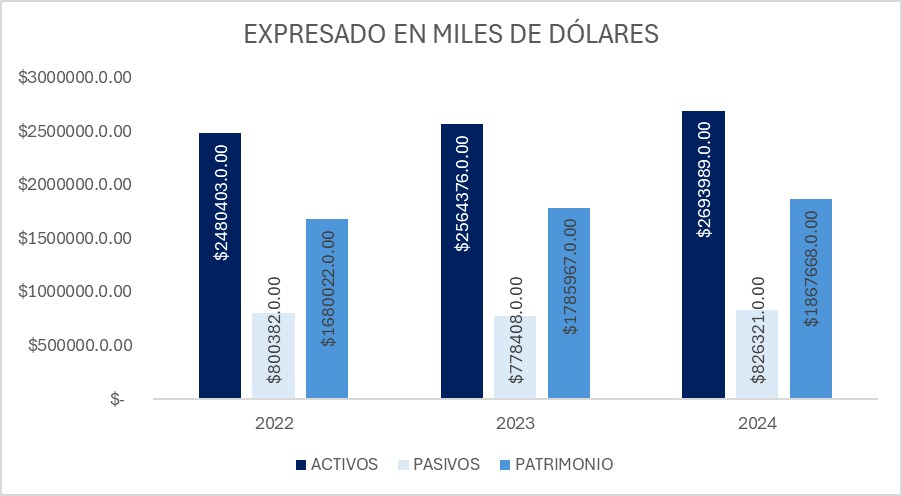
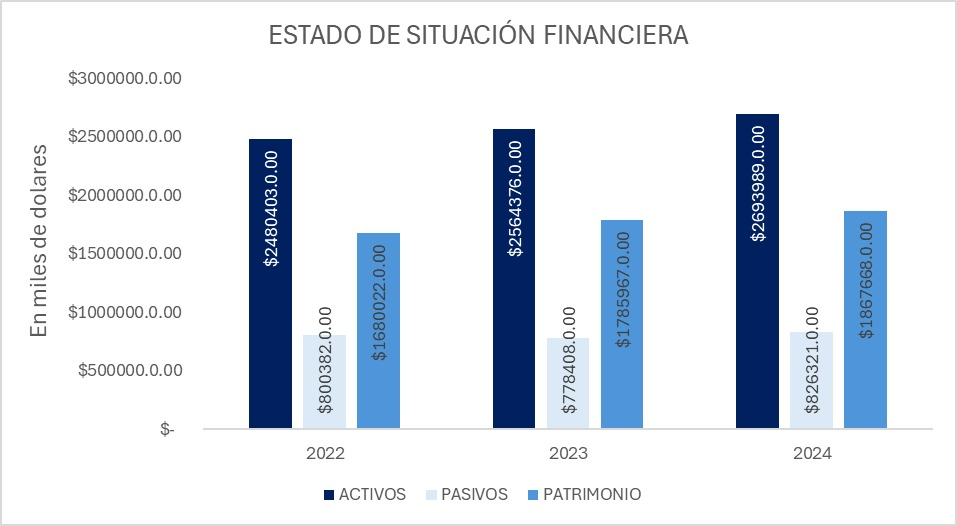
rere

diff --git a/templates/empresa.html b/templates/empresa.html
@@ -160,36 +160,34 @@
     <!-- Nueva Sección: Balances -->
 {% if profile.Nombre == "CORPORACION FAVORITA C.A." %}
 <div class="balances-section">
-    <h2 style="text-align: center;">Balances</h2>
+    <h2 style="text-align: center;">Estados Financieros</h2>
     <!-- Imagen: Activos -->
+    <h2 style="text-align: center;">Estado de situación financiera</h2>
     <div style="text-align: center; margin-bottom: 20px;">
         <img src="/static/img/Balances/CORPORACION_FAVORITA_C.A/activos.jpeg" 
              alt="Activos" 
-             style="max-width: 100%; height: auto; border: 4px solid black;">
+             style="max-width: 100%; height: auto; border: 1.5px solid black;">
     </div>
     <!-- Imagen: Activos Gráfico -->
-    <div style="text-align: center; margin-bottom: 40px;">
+         <div style="text-align: center; margin-bottom: 40px;">
         <img src="/static/img/Balances/CORPORACION_FAVORITA_C.A/activos_grafico.jpeg" 
              alt="Activos Gráfico" 
-             style="max-width: 100%; height: auto; border: 4px solid black;">
+             style="max-width: 100%; height: auto; border: 1.5px solid black;">
     </div>
     <!-- Imagen: Ingresos -->
+    <h2 style="text-align: center;" >Estado de resultados integral</h2>
     <div style="text-align: center; margin-bottom: 20px;">
         <img src="/static/img/Balances/CORPORACION_FAVORITA_C.A/ingresos.jpeg" 
              alt="Ingresos" 
-             style="max-width: 100%; height: auto; border: 4px solid black;">
+             style="max-width: 100%; height: auto; border: 1.5px solid black;">
     </div>
-    <!-- Imagen: Ingresos Gráfico -->
-    <div style="text-align: center; margin-bottom: 40px;">
-        <img src="/static/img/Balances/CORPORACION_FAVORITA_C.A/ingresos_grafico.jpeg" 
-             alt="Ingresos Gráfico" 
-             style="max-width: 100%; height: auto; border: 4px solid black;">
-    </div>
+
     <!-- Imagen: Liquidez -->
+    <h2 style="text-align: center;" >Principales indicadores</h2>
     <div style="text-align: center;">
         <img src="/static/img/Balances/CORPORACION_FAVORITA_C.A/liquidez.jpeg" 
              alt="Liquidez" 
-             style="max-width: 100%; height: auto; border: 4px solid black;">
+             style="max-width: 100%; height: auto; border: 1.5px solid black;">
     </div>
 </div>
 {% endif %}

diff --git a/templates/renta_variable.html b/templates/renta_variable.html
@@ -66,17 +66,17 @@
 {% if sector == "Instituciones del Sector Financiero" %}
 <!-- Nueva Sección: Dividendos -->
 <section class="dividendos-section">
-    <h2>Dividendos</h2>
+    <h2>Resultados Juntas de Accionistas-Dividendos 2024</h2>
     <div class="dividendos-cuadros" style="position: relative; text-align: center; margin-bottom: 30px;">
         <!-- Imagen base de la tabla -->
         <img src="{{ url_for('static', filename='img/juntas_sector_financiero/juntas_sector_financiero.jpg') }}" 
              alt="Juntas del Sector Financiero" 
-             style="max-width: 100%; height: auto; border: 4px solid black; border-radius: 5px;">
+             style="max-width: 100%; height: auto; border: 1.5px solid black; border-radius: 2px;">
     </div>
 </section>
     <!-- Gráfico de precios de las tres empresas -->
     <div id="grafico-tendencias" style="margin-top: 50px; text-align: center;">
-        <h2>Gráfico de Rendimientos</h2>
+        <h2>Rendimientos por dividendo</h2>
         <div>
             {{ grafico_tres_empresas|safe }}
         </div>

diff --git a/static/css/styles2.css b/static/css/styles2.css
@@ -370,16 +370,16 @@
         width: 80%; /* Incrementar el ancho al 90% del contenedor */
         max-width: 900px; /* Tamaño máximo para pantallas grandes */
         height: auto; /* Mantener la proporción */
-        border: 4px solid black; /* Borde negro alrededor de la imagen */
-        border-radius: 5px; /* Esquinas ligeramente redondeadas */
+        border: 1.5px solid black; /* Borde negro alrededor de la imagen */
+        border-radius: 2px; /* Esquinas ligeramente redondeadas */
         box-shadow: 0 4px 8px rgba(0, 0, 0, 0.3); /* Sombra para un efecto visual agradable */
     }
     .imagen-dividendo {
         width: 100%;
         height: auto;
         max-width: 600px;
-        border: 4px solid black; /* Borde negro */
-        border-radius: 5px; /* Esquinas redondeadas opcionales */
+        border: 1.5px solid black; /* Borde negro */
+        border-radius: 2px; /* Esquinas redondeadas opcionales */
         box-shadow: 0 4px 8px rgba(0, 0, 0, 0.3); /* Sombra para mejorar el diseño visual */
     }
     

diff --git a/data/resumen_dividendos.py b/data/resumen_dividendos.py
@@ -5,7 +5,7 @@ def obtener_resumen_dividendos(empresa):
         "BANCO DE LA PRODUCCION S.A . PRODUBANCO": "Banco de la Producción S.A. (Produbanco) entregó dividendos correspondientes al año 2023 por un total de $17.7 millones, con un dividendo efectivo por acción de $0.04. En comparación con el año 2022, esto representa una disminución en el dividendo en efectivo del 11.55%, bajando de $20.1 millones a $17.7 millones. El dividendo por acción también se redujo de $0.0473 en 2022 a $0.0371 en 2023. A pesar de la disminución en el dividendo, el precio de la acción aumentó de $0.78 a $0.98, lo que resultó en un rendimiento del dividendo (yield) del 3.78% en 2023.",
         "CERVECERIA NACIONAL CN S A": "Cervecería Nacional CN S.A. entregó dividendos correspondientes al año 2023 por un total de $66.78 millones, con un dividendo efectivo por acción de $3.26. En comparación con el año 2022, esto representa un aumento en el dividendo en efectivo del 12.70%, pasando de $59.26 millones a $66.78 millones. El dividendo por acción también incrementó de $2.8919 en 2022 a $3.2591 en 2023. A pesar de la disminución en el precio de la acción de $55.99 a $40.00, el rendimiento del dividendo (yield) aumentó significativamente, pasando de 5.17% en 2022 a 8.15% en 2023.",
         "HOLCIM ECUADOR S.A.": "Holcim Ecuador S.A. entregó dividendos correspondientes al año 2023 por un total de $28.60 millones, con un dividendo efectivo por acción de $1.40. En comparación con el año 2022, hubo una disminución significativa en el dividendo en efectivo, bajando de $107.54 millones a $28.60 millones. El dividendo por acción también se redujo de $5.2526 en 2022 a $1.3967 en 2023. La utilidad neta de 2023 fue menor en comparación con la de 2022, y la reserva facultativa permite la posibilidad de distribuir la diferencia entre utilidad y dividendo en efectivo antes de que termine el ejercicio fiscal. El rendimiento del dividendo (yield) también disminuyó de 9.73% en 2022 a 2.74% en 2023, reflejando los cambios en el dividendo distribuido y el precio de la acción.",
-        "BANCO PICHINCHA C.A.": "Banco Pichincha C.A. entregó dividendos correspondientes al año 2023 por un total de $50 millones, con un dividendo efectivo por acción de $0.04. En comparación con el año 2022, esto representa un incremento significativo en el dividendo en efectivo del 146.75%, pasando de $20.3 millones a $50 millones. El dividendo por acción también aumentó de $0.0220 en 2022 a $0.0448 en 2023. El aumento de capital para este ejercicio fiscal se acreditará con la Resolución del directorio. El rendimiento del dividendo (yield) también mostró un crecimiento notable, incrementándose de 2.56% en 2022 a 5.61% en 2023.",
+        "BANCO PICHINCHA C.A.": "El Banco Pichincha entregó dividendos correspondientes al año 2023 por un total de $50.00 millones, lo que representa un dividendo en efectivo por acción de $4.4843 (Valor Nominal 100). En comparación con el año 2024, el dividendo en efectivo fue de $40.58 millones, con un dividendo en efectivo por acción de $2.9661. El aumento de capital por acción para el año 2023 fue de 22.69%, mientras que para el año 2024 fue de 6.92%. El último precio de la acción se mantuvo en $80.00 tanto en 2023 como en 2024. El rendimiento del dividendo (yield) fue del 5.61% en 2023 y del 3.71% en 2024.",
         "SAN CARLOS SOC. AGR. IND.": "San Carlos Sociedad Agrícola e Industrial (SAN CARLOS) entregó dividendos correspondientes al año 2023 por un total de $5.00 millones, con un dividendo efectivo por acción de $0.03. En comparación con el año 2022, hubo una ligera disminución en el dividendo en efectivo, bajando de $6.00 millones a $5.00 millones. El dividendo por acción también se redujo de $0.0378 en 2022 a $0.0315 en 2023. La utilidad neta de 2023 fue ligeramente superior en comparación con la de 2022, aunque el rendimiento del dividendo (yield) disminuyó de 5.81% en 2022 a 5.25% en 2023, reflejando los cambios en el dividendo distribuido y el precio de la acción.",
         "BANCO BOLIVARIANO C.A.": "El Banco Bolivariano entregó dividendos correspondientes al año 2023 por un total de $17.7 millones, lo que representa un dividendo en efectivo por acción de $0.0492. Para el año 2024, el dividendo en efectivo fue de $18 millones, con un dividendo en efectivo por acción de $0.0450. El aumento de capital por acción fue del 11.11% en 2023 y del 10.37% en 2024. El último precio de la acción en 2023 fue de $1.03, disminuyendo a $0.95 en 2024. El rendimiento del dividendo (yield) fue del 4.92% en 2023 y del 4.74% en 2024.",
         "BOLSA DE VALORES DE GUAYAQUIL": "La Bolsa de Valores de Guayaquil (BVG) mostró un rendimiento del dividendo (yield) del 8.51% durante el año 2023. El dividendo en efectivo por acción para el año 2023 fue de $0.0851, lo que refleja un incremento en comparación con los $0.0753 por acción en 2022. El dividendo total en efectivo también aumentó de $377,330 en 2022 a $426,590 en 2023, lo que representa un crecimiento del 13.06%. A pesar de una ligera disminución en el precio de la acción de $1.05 a $1.00, el rendimiento del dividendo aumentó, demostrando la sólida capacidad de BVG para generar retornos para sus accionistas.",
